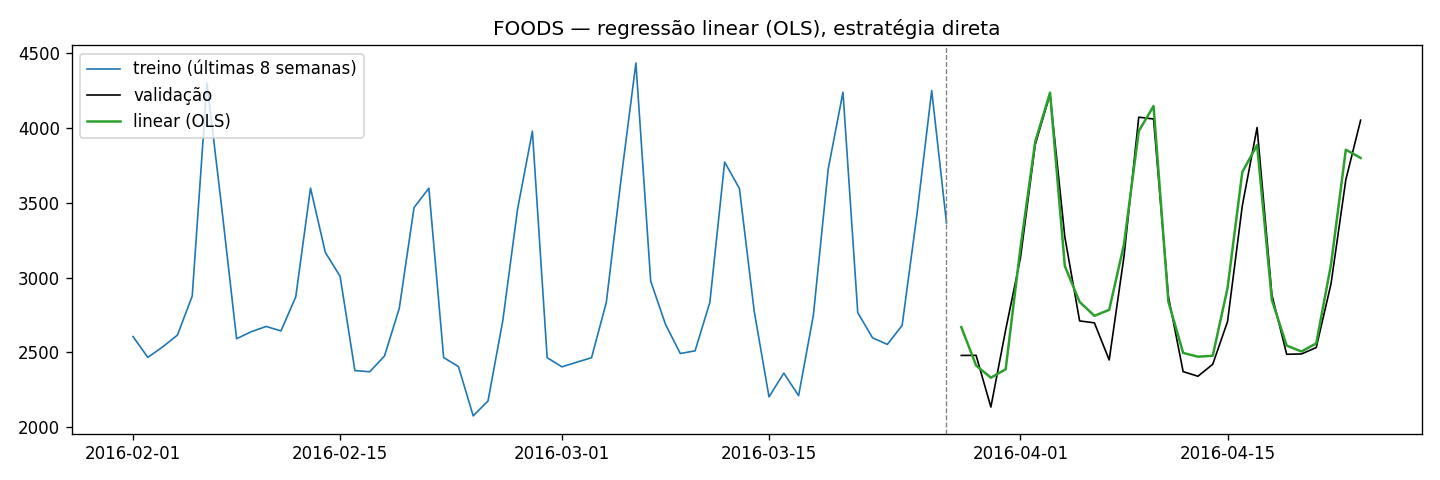
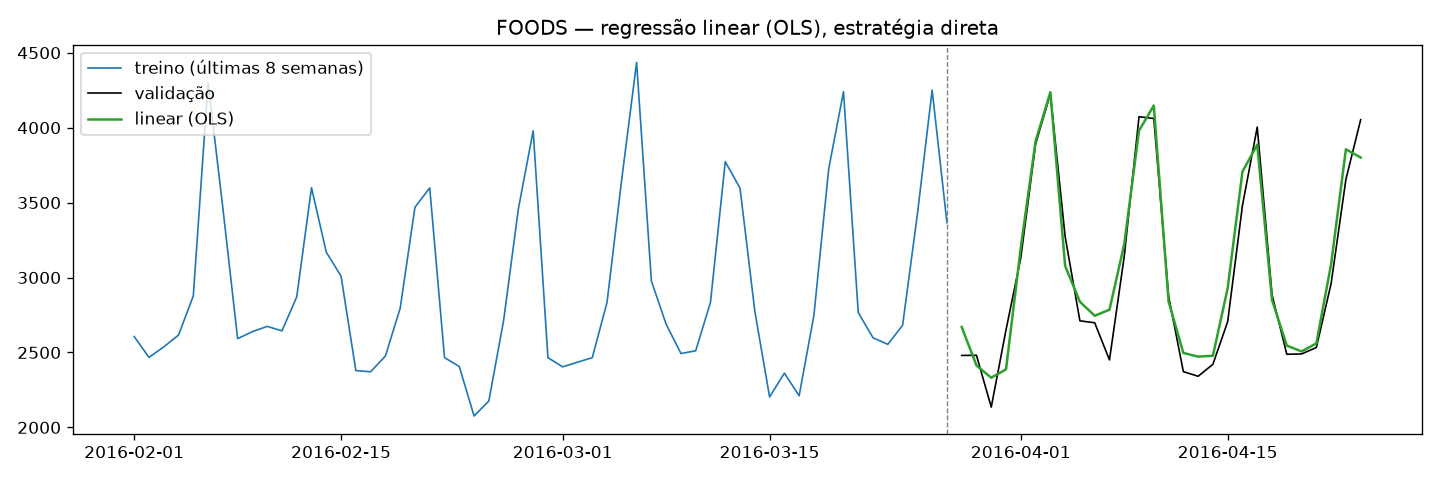
adiciona modelo boosting "HistGradientBoostingRegressor" para previsão com abordagem de boosting

diff --git a/task2/boosting.py b/task2/boosting.py
@@ -1,0 +1,34 @@
+import matplotlib.pyplot as plt
+import pandas as pd
+from sklearn.ensemble import HistGradientBoostingRegressor
+
+from config import FIG, H, M, SERIES, TRAIN_END
+from features import montar_features
+
+
+def plotar_previsao(y: pd.Series, y_val: pd.Series, yhat: pd.Series, s: str) -> None:
+    fig, ax = plt.subplots(figsize=(12, 4))
+    ax.plot(y.index[-8 * M:], y.values[-8 * M:], lw=1, color="C0", label="treino (últimas 8 semanas)")
+    ax.plot(y_val.index, y_val.values, lw=1, color="black", label="validação")
+    ax.plot(yhat.index, yhat.values, lw=1.5, color="C3", label="boosting")
+    ax.axvline(TRAIN_END, color="gray", ls="--", lw=0.8)
+    ax.set_title(f"{s} — gradient boosting de árvores, estratégia direta")
+    ax.legend(loc="upper left")
+    fig.tight_layout()
+    fig.savefig(FIG / f"boosting_previsao_{s}.png", dpi=120)
+    plt.close(fig)
+
+
+def boosting(treino: pd.DataFrame, val: pd.DataFrame, cov: pd.DataFrame) -> pd.DataFrame:
+    FIG.mkdir(exist_ok=True)
+    previsoes = []
+    for s in SERIES:
+        X_treino, y_z, X_val, mu, sd = montar_features(treino[s], cov, s)
+        modelo = HistGradientBoostingRegressor(early_stopping=False, random_state=0).fit(X_treino, y_z)
+        yhat = pd.Series(modelo.predict(X_val) * sd + mu, index=X_val.index)
+        assert yhat.index.min() > TRAIN_END and len(yhat) == H
+
+        print(f"[boosting] {s:12s} n={len(X_treino)}  colunas={X_treino.shape[1]}  R² treino={modelo.score(X_treino, y_z):.3f}")
+        plotar_previsao(treino[s], val[s], yhat, s)
+        previsoes.append(pd.DataFrame({"date": yhat.index, "series": s, "modelo": "boosting", "yhat": yhat.values}))
+    return pd.concat(previsoes, ignore_index=True)

diff --git a/task2/main.py b/task2/main.py
@@ -1,15 +1,22 @@
 import argparse
 import warnings
 
+import matplotlib
+
+matplotlib.use("Agg") 
+
 import pandas as pd
 
 from baselines import calcular_baselines
+from boosting import boosting
 from carregar import carregar, carregar_covariaveis, carregar_task1
 from config import PREVISOES
 from diagnostico_series import diagnostico
 from linear import linear
 from metricas import salvar_metricas
 from sarima import comparar_ordens, sarima
+
+
 
 warnings.filterwarnings("ignore")
 
@@ -32,7 +39,8 @@ def main() -> None:
     else:
         task1 = carregar_task1()
 
-    previsoes = pd.concat([task1, linear(treino, val, cov)], ignore_index=True)
+    previsoes = pd.concat([task1, linear(treino, val, cov), boosting(treino, val, cov)], ignore_index=True)
+
     previsoes.to_csv(PREVISOES, index=False)
     metricas = salvar_metricas(treino, val, previsoes)
     print("\nMétricas na validação (menor é melhor):")

diff --git a/task2/AI_USAGE.md b/task2/AI_USAGE.md
@@ -44,6 +44,9 @@ O grupo revisou, executou e entendeu todo o código e o texto entregues, e respo
 1. "Leia os arquivos, o projeto e os enunciados para se ambientar e entender o que precisamos fazer."
 2. "Antes, você sugere que alteremos alguma coisa que herdamos da task1 para melhorar?"
 3. "Vamos fazer o modelo linear". A IA perguntou a regressão, a estratégia e as features; escolhemos OLS e a estratégia direta com lags ≥ 28, e pedimos a recomendação de features.
+4. "Now I want you to build a function boosting(train, val, cov) which fits a boosting model in this dataset, its a time series data type, so dont shuffle the datapoints." A IA montou a função "boosting()". 
+
+
 
 ## Erros da IA que o grupo corrigiu
 - **Linhas da Task 1 reescritas.** Para testar a reprodutibilidade, a IA rodou o `main.py`, que reajustava o SARIMA e sobrescreveu o `previsoes_validacao.csv`, o `metricas.csv` e as figuras entregues; o refit mudava o `yhat` do SARIMA na terceira casa decimal. Restauramos os arquivos pelo git e mudamos o `main.py` para reaproveitar as linhas entregues da Task 1. O refit ficou atrás de `--refazer-task1`.
